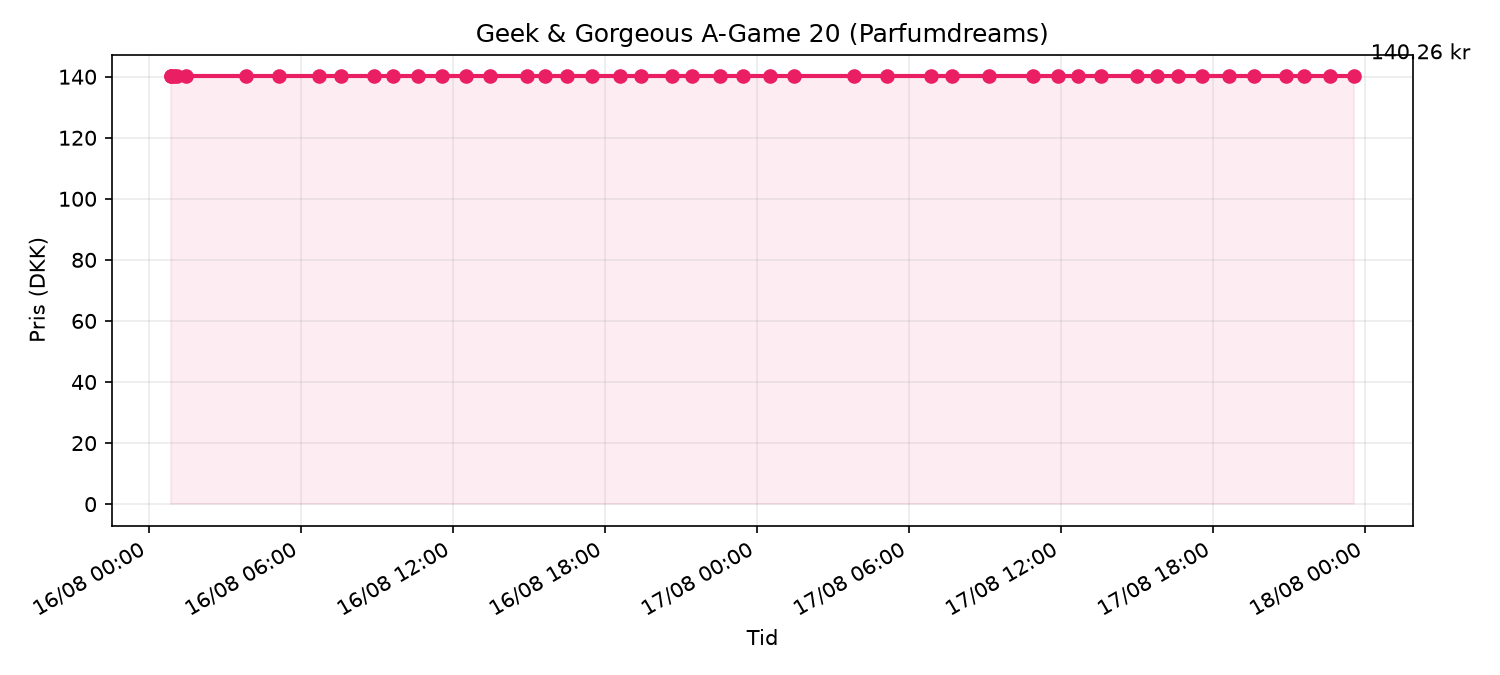
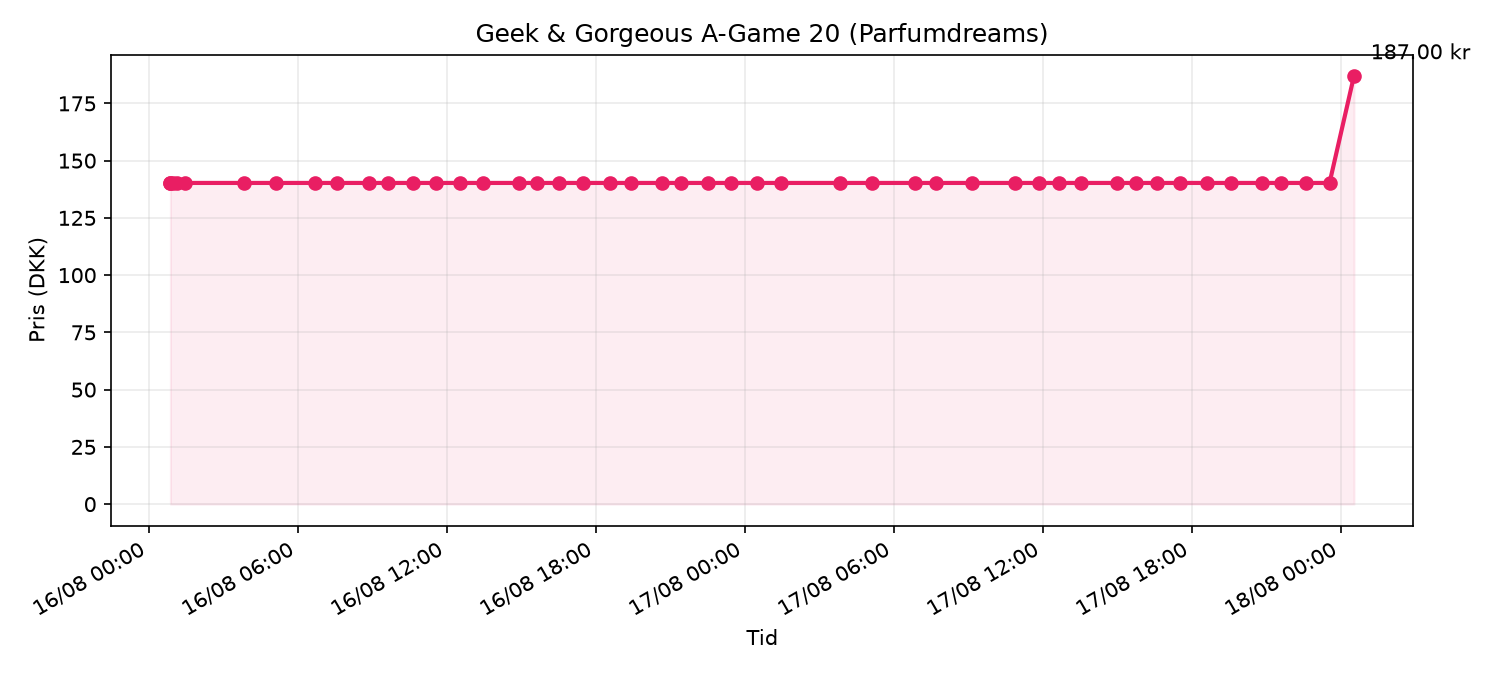
deploy: 35927bea223041adb2043b8af1be59df23a7a107

diff --git a/price_chart.html b/price_chart.html
@@ -13,7 +13,7 @@
 </head>
 <body>
   <h1>Geek & Gorgeous A-Game 20 (Parfumdreams)</h1>
-  <p class="meta">Senest tjekket: 17/08/2026 23:33 · Pris: <strong>140.26 kr</strong> · på lager</p>
+  <p class="meta">Senest tjekket: 18/08/2026 00:32 · Pris: <strong>187.00 kr</strong> · på lager</p>
   
   <p><a href="https://www.parfumdreams.dk/Geek-Gorgeous/Samlinger/101-aktive-stoffer/A-Game-20-Serum/index_137083.aspx?variation=221879">Åbn produkt på Parfumdreams</a></p>
   <img src="price_chart.png" alt="Prisgraf">
